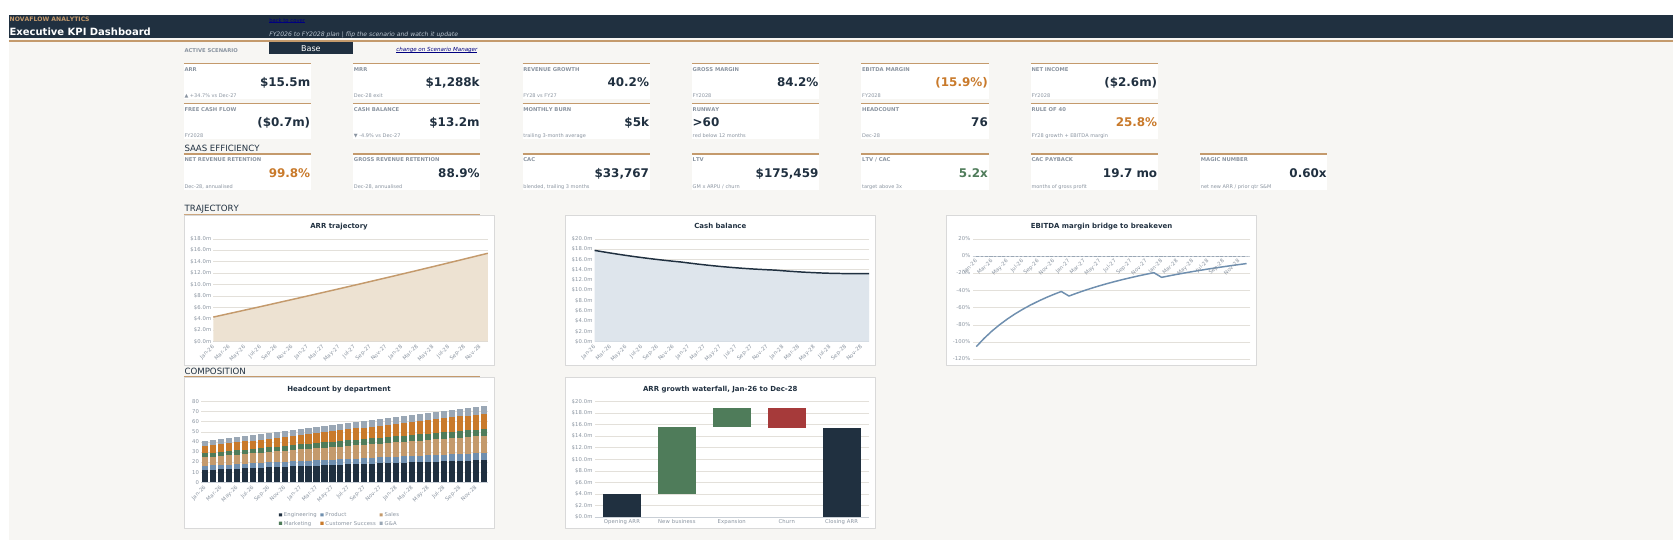
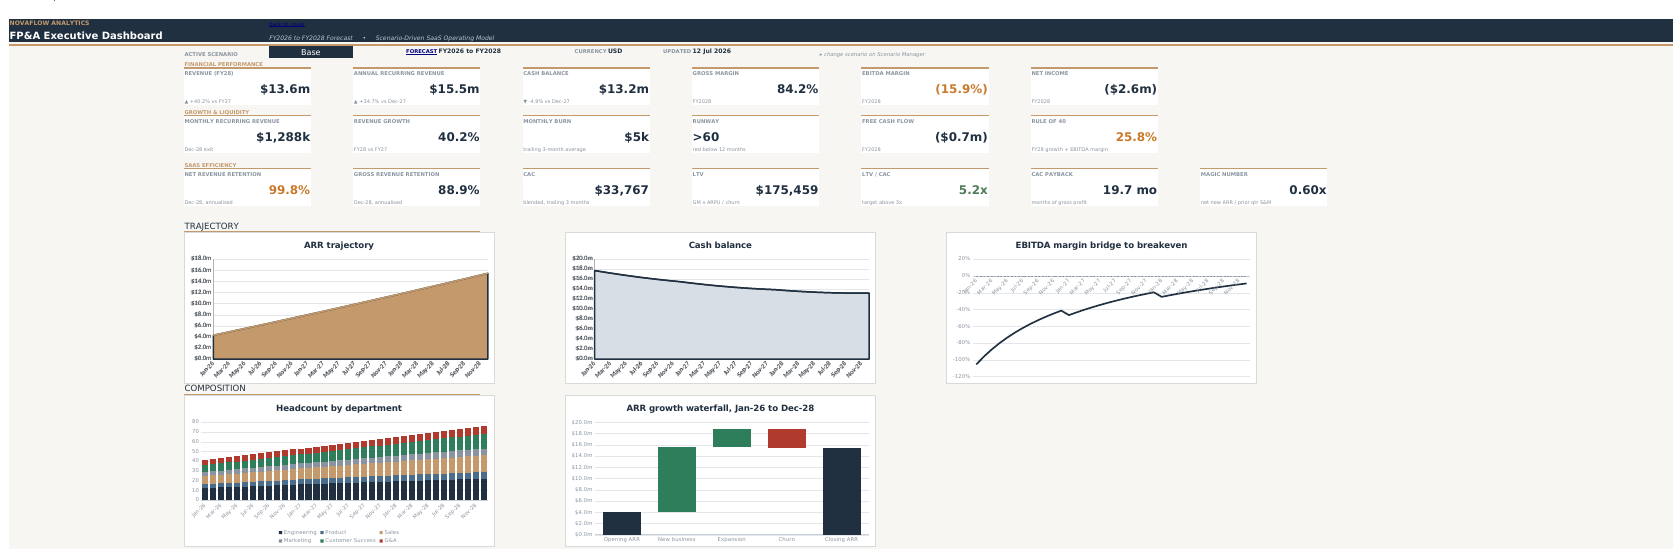
Enhance dashboard design  and documentation

diff --git a/README.md b/README.md
@@ -4,7 +4,7 @@ A fully formula-driven, scenario-controlled operating model for a fictional B2B 
 
 ![Executive KPI Dashboard](assets/kpi-dashboard.png)
 
-At a glance: one dropdown flips the entire model across Base / Optimistic / Downside. The dashboard above recalculates live from the calculation spine below it: revenue and MRR roll-forwards, a formula-driven headcount and payroll build, a monthly P&L with NOL-adjusted tax, and an indirect cash flow with runway. No circular references, no hardcoded outputs.
+At a glance: one dropdown flips the entire model across Base / Optimistic / Downside, and a colour-coded chip plus status bar keep the active scenario, forecast period and refresh context visible at all times. The dashboard above recalculates live from the calculation spine below it: revenue and MRR roll-forwards, a formula-driven headcount and payroll build, a monthly P&L with NOL-adjusted tax, and an indirect cash flow with runway. No circular references, no hardcoded outputs.
 
 ## The business
 
@@ -25,7 +25,7 @@ Scenario Manager -> Assumptions -> Revenue | Headcount | OpEx
 - **Operating Expenses**: COGS (hosting % of revenue + support share of Customer Success), S&M, R&D, G&A, plus a capex placeholder and straight-line depreciation that V2 replaces.
 - **Income Statement**: monthly P&L with FY2026-FY2028 rollups and an NOL carryforward (tax charged only on cumulative positive pre-tax income).
 - **Cash Flow**: indirect method (NI + D&A + deferred revenue movement - capex), cash roll-forward, trailing three-month burn and guarded runway. Labelled placeholder lines mean V2 working capital and financing slot in without rework.
-- **KPI Dashboard**: executive cards (ARR, MRR, margins, cash, burn, runway, headcount), SaaS efficiency metrics (NRR, GRR, CAC, LTV, LTV/CAC, CAC payback, Magic Number, Rule of 40), five custom-styled charts including an ARR waterfall, and traffic-light conditional formatting.
+- **KPI Dashboard**: an executive one-pager organised into three bands (Financial Performance, Growth & Liquidity, SaaS Efficiency) behind a status bar and a colour-coded scenario chip. Headline cards cover revenue, ARR, cash, gross and EBITDA margin, net income, MRR, revenue growth, burn, runway and Rule of 40; the efficiency band covers NRR, GRR, CAC, LTV, LTV/CAC, CAC payback and Magic Number. Five brand-styled charts (ARR trajectory, cash balance, EBITDA-margin bridge, headcount by department, ARR growth waterfall) and traffic-light conditional formatting sit beneath the cards.
 
 ## Conventions
 
@@ -45,9 +45,26 @@ Fonts: Aptos Display / Aptos / Aptos Narrow / Bahnschrift SemiBold, with Arial f
 
 Open `NovaFlow_Analytics_FPA_Model_v1.xlsx` in **Excel 2021 or Microsoft 365** (XLOOKUP is required; older versions and most alternative spreadsheet apps will not recalculate correctly). Start on the **Instructions** sheet for the reading guide, colour legend, and checks panel. To run a scenario, go to **Scenario Manager**, change the single control cell to Base / Optimistic / Downside, and the whole model recalculates. Blue-on-cream cells are the only inputs meant to be edited.
 
+## Key features
+
+- **Single-switch scenario engine.** Ten levers across Base / Optimistic / Downside, one data-validated control cell, propagated through named ranges with no circular references.
+- **SaaS-correct revenue mechanics.** Per-segment customer and MRR roll-forwards, ARPU compounding, and an explicit billings / recognised-revenue / deferred-revenue split, so cash and P&L diverge the way they do in a real annual-billing SaaS.
+- **Driver-based headcount and payroll.** A departmental hiring plan scaled by scenario pace, January salary inflation, and a fully loaded cost factor, feeding OpEx entirely by formula.
+- **NOL-aware tax and guarded runway.** Tax charged only on cumulative positive pre-tax income; runway floored and flagged when it falls below the threshold.
+- **Executive dashboard.** A three-band KPI hierarchy, colour-coded scenario chip, status bar, five brand-styled charts, and traffic-light conditional formatting on the metrics that matter.
+- **Self-checking.** A six-line tie-out panel (scenario validity, revenue, payroll, cash, ARR waterfall, tax sign) that must read all OK before the model is trusted.
+
+## Key assumptions
+
+All assumptions live in blue-on-cream input cells on the Assumptions and Scenario Manager sheets and can be changed without touching a formula. The Professional tier is priced around $850/mo billed monthly with higher churn; Enterprise is around $4,500/mo billed annually upfront with NRR near 106%. New-logo adds ramp steadily, ARPU compounds at roughly 4%/yr, and hiring follows a departmental plan with salary inflation applied each January. The plan is funded by an $18m Series B, and tax applies only once cumulative pre-tax income turns positive. All figures are illustrative.
+
 ## What this demonstrates
 
 An end-to-end SaaS operating model built the way a lender or investor would expect to receive it: a one-directional dependency spine with no circular references, a single scenario switch driving every downstream sheet through named ranges, SaaS-correct separation of billings, recognised revenue and deferred revenue, and a self-checking tie-out panel. It is intended as a portfolio piece showing FP&A modelling, Excel engineering, and SaaS metric fluency (NRR, GRR, CAC, LTV, CAC payback, Magic Number, Rule of 40).
+
+## What I learned
+
+Building this end to end sharpened a few things. Separating billings from recognised revenue from deferred revenue is where SaaS models earn their keep: getting the Enterprise annual-upfront mechanic right is what makes cash and P&L tell different, and correct, stories. Enforcing a one-directional dependency spine up front, rather than patching circular references later, kept the model auditable and made the scenario switch trivial to wire through named ranges. A self-checking tie-out panel turned "I think it balances" into "it reads OK or it doesn't", which is the difference between a spreadsheet and a model I would hand to an investor. If I were starting over, I would build the Balance Sheet and working-capital schedule from day one rather than leaving them to V2.
 
 ## License
 
@@ -55,4 +72,4 @@ Released under the [MIT License](LICENSE). All figures are illustrative and for 
 
 ## Author
 
-**Soban Farid** — built as an FP&A portfolio project. Feedback and questions welcome via GitHub issues.
+**Soban Farid.** Built as an FP&A portfolio project. Feedback and questions welcome via GitHub issues.

diff --git a/LinkedIn_post.md b/LinkedIn_post.md
@@ -9,7 +9,7 @@ A few things I focused on:
 - A one-directional dependency spine with no circular references. Scenario Manager feeds Assumptions, which feed Revenue, Headcount, and OpEx, which roll into the P&L, then Cash Flow, then the KPI dashboard.
 - SaaS-correct mechanics: separate customer and MRR roll-forwards per segment, and a real split between billings, recognised revenue, and deferred revenue. Enterprise bills annually upfront, so cash and P&L genuinely diverge.
 - A self-checking tie-out panel. Revenue, payroll, cash, and the ARR waterfall all have to reconcile before I'd call it done.
-- The metrics an investor actually asks about: NRR, GRR, CAC, LTV, CAC payback, Magic Number, and Rule of 40, all live on the dashboard.
+- An executive dashboard designed like an internal board report, not a spreadsheet dump: a three-band KPI hierarchy, a colour-coded scenario chip, a status bar, and five clean charts. The metrics an investor actually asks about (NRR, GRR, CAC, LTV, CAC payback, Magic Number, Rule of 40) sit up top and recolour the moment you flip the scenario.
 
 The plan takes ARR from about $4m to $15m while EBITDA margin climbs out of the deep negatives, funded by an $18m Series B. All figures are illustrative.
 